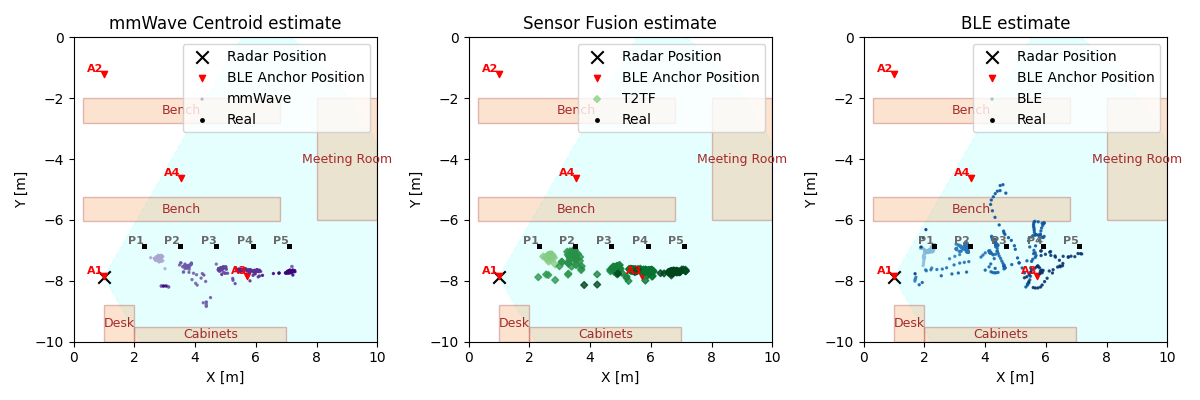
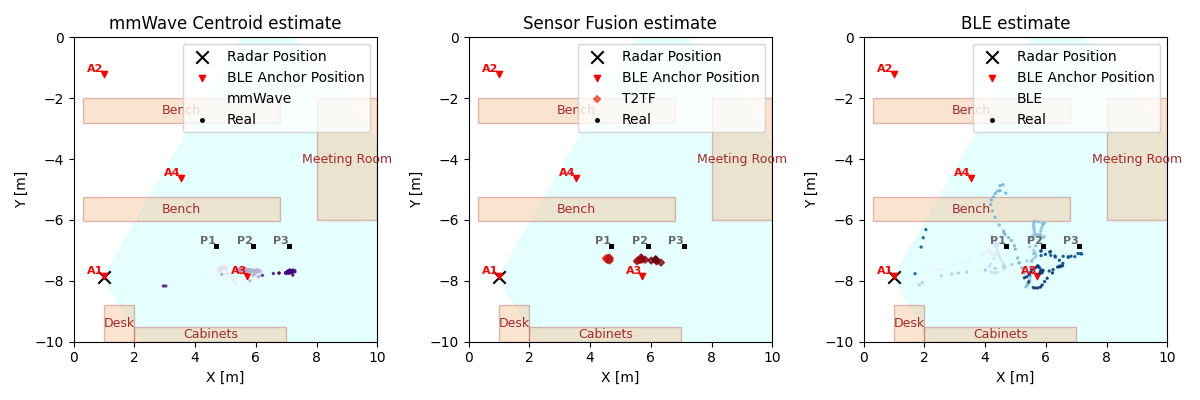
Update final implementation for article submission

diff --git a/tools/plot_dataset_2d.py b/tools/plot_dataset_2d.py
@@ -3,19 +3,25 @@ import pandas as pd
 import matplotlib.pyplot as plt
 import matplotlib as mpl
 from constants import RADAR_PLACEMENT, EXPERIMENT_POINTS
-from calculate_mse_mae_rmse import calculate_mse_mae_rmse
+from ast import literal_eval
 from plot_room_2d import plot_obstacles, plot_radar_fov, plot_experiment_points
 
 # Load data
 data = pd.read_csv("fused_dataset.csv", sep=";")
 data["timestamp"] = pd.to_datetime(data["timestamp"], format="%Y-%m-%d %H:%M:%S")
 
-# Ensure stringified lists are parsed correctly
-for col in ["x", "y", "z", "centroid_xyz", "real_xyz", "sensor_fused_xyz", "dl_sensor_fused_xyz"]:
-    if col in data.columns:
-        data[col] = data[col].apply(eval)
+def safe_eval_list(s):
+    """
+    Safely evaluate a string representation of a list, correctly handling 'nan'.
+    """
+    try:
+        return eval(s, {"nan": np.nan})
+    except NameError:
+        return [np.nan, np.nan, np.nan]
 
-errors = calculate_mse_mae_rmse(data)
+data["centroid_xyz"] = data["centroid_xyz"].apply(eval)
+data["real_xyz"] = data["real_xyz"].apply(eval)
+data["sensor_fused_xyz_filter"] = data["sensor_fused_xyz_filter"].apply(safe_eval_list)
 
 def plot_colored_points(ax, x, y, times, cmap, label, size=10, marker='.'):
     """Plot points with fading colors (no connecting lines)."""
@@ -24,7 +30,7 @@ def plot_colored_points(ax, x, y, times, cmap, label, size=10, marker='.'):
     if label == "Real":
         ax.scatter(x, y, marker=marker, c="black", s=size, label=label)
     else:
-        norm = mpl.colors.Normalize(vmin=times.min()-1200, vmax=times.max())
+        norm = mpl.colors.Normalize(vmin=times.min()-50, vmax=times.max())
         ax.scatter(x, y, marker=marker, c=times, cmap=cmap, norm=norm, s=size, alpha=0.8, label=label)
 
 
@@ -36,9 +42,9 @@ for _, row in data.iterrows():
     if row.get("centroid_xyz"):
         trajectories["centroid"]["x"].append(row["centroid_xyz"][0])
         trajectories["centroid"]["y"].append(row["centroid_xyz"][1])
-    if row.get("sensor_fused_xyz"):
-        trajectories["sensor_fused"]["x"].append(row["sensor_fused_xyz"][0])
-        trajectories["sensor_fused"]["y"].append(row["sensor_fused_xyz"][1])
+    if row.get("sensor_fused_xyz_filter") and not np.isnan(row["sensor_fused_xyz_filter"]).any():
+        trajectories["sensor_fused"]["x"].append(row["sensor_fused_xyz_filter"][0])
+        trajectories["sensor_fused"]["y"].append(row["sensor_fused_xyz_filter"][1])
     if row.get("dl_sensor_fused_xyz"):
         trajectories["dl_sensor_fused"]["x"].append(row["dl_sensor_fused_xyz"][0])
         trajectories["dl_sensor_fused"]["y"].append(row["dl_sensor_fused_xyz"][1])
@@ -66,12 +72,12 @@ def make_subplot(ax, title, to_plot):
     if "sensor_fused" in to_plot and trajectories["sensor_fused"]["x"]:
         plot_colored_points(ax, trajectories["sensor_fused"]["x"], trajectories["sensor_fused"]["y"],
                             times[:len(trajectories["sensor_fused"]["x"])],
-                            plt.cm.Greens, "T2TF", size=12, marker='D')
+                            plt.cm.Reds, "T2TF", size=12, marker='D')
 
     if "dl_sensor_fused" in to_plot and trajectories["dl_sensor_fused"]["x"]:
         plot_colored_points(ax, trajectories["dl_sensor_fused"]["x"], trajectories["dl_sensor_fused"]["y"],
                             times[:len(trajectories["dl_sensor_fused"]["x"])],
-                            plt.cm.Reds, "DLFusion", size=12, marker='D')
+                            plt.cm.Greens, "DLFusion", size=12, marker='D')
 
     if "ble" in to_plot and trajectories["ble"]["x"]:
         plot_colored_points(ax, trajectories["ble"]["x"], trajectories["ble"]["y"],
@@ -92,7 +98,7 @@ def make_subplot(ax, title, to_plot):
 
 
 # Create one figure with 3 subplots side by side
-fig, axes = plt.subplots(1, 3, figsize=(9, 3))  # wide figure with 3 panels
+fig, axes = plt.subplots(1, 3, figsize=(12, 4))  # wide figure with 3 panels
 
 make_subplot(axes[0], "mmWave Centroid estimate", ["centroid"])
 make_subplot(axes[1], "Sensor Fusion estimate", ["sensor_fused", "dl_sensor_fused"])

diff --git a/tools/plot_mse_rmse_by_distance.py b/tools/plot_mse_rmse_by_distance.py
@@ -100,20 +100,32 @@ plt.show()
 
 # Plotting RMSE by Distance
 fig, ax = plt.subplots(figsize=(4.5,3.5))
+multiplier = 0
+width = 0.2  # the width of the bars
+x = np.arange(len(results))  # the label locations
 for method in methods:
-    ax.plot(results['distance'], results[f'RMSE_{method}'], label=f'{method_label_map.get(method)}', marker= method_marker_map.get(method))
+    offset = width * multiplier
+    rects = ax.bar(x + offset, results[f'RMSE_{method}'], width, label=method_label_map.get(method, method))
+    ax.bar_label(rects, padding=3, fmt='%.2f', fontsize=8)
+    multiplier += 1
     print(f'MIN RMSE_{method}:', np.min(results[f'RMSE_{method}']))
     print(f'MAX RMSE_{method}:', np.max(results[f'RMSE_{method}']))
+
+
 print(f'Absolute improvement in RMSE from BLE:', results['RMSE_BLE'].mean() - results['RMSE_Fusion'].mean())
 print(f'Absolute improvement in RMSE from MMW:', results['RMSE_MMW'].mean() - results['RMSE_Fusion'].mean())
-print(f"Percentage improvement in RMSE from BLE: {(((results['RMSE_Fusion'].mean() - results['RMSE_BLE'].mean()) / results['RMSE_Fusion'].mean()))*100}%")
-print(f"Percentage improvement in RMSE from MMW: {(((results['RMSE_Fusion'].mean() - results['RMSE_MMW'].mean()) / results['RMSE_Fusion'].mean()))*100}%")
+print(f"Percentage improvement in RMSE from BLE: {(((results['RMSE_Fusion'].mean() - results['RMSE_BLE'].mean()) / results['RMSE_BLE'].mean()))*100}%")
+print(f"Percentage improvement in RMSE from MMW: {(((results['RMSE_Fusion'].mean() - results['RMSE_MMW'].mean()) / results['RMSE_BLE'].mean()))*100}%")
 
+x_labels = ['P1','P2','P3']
 # plt.title('Root Mean Squared Error (RMSE) by Distance')
 ax.set_xlabel('Distance [m]', fontsize=14)
 ax.set_ylabel('RMSE [m]', fontsize=14)
-ax.grid(True)
-fig.legend(loc="upper left")
+ax.set_ylim((0,1.4))
+ax.set_xticks(x + width * (len(methods) - 1) / 2, x_labels)
+ax.set_xticklabels(x_labels)
+ax.legend(loc='upper left')
+ax.grid(True, axis='y', linestyle='--', alpha=0.6)
 fig.tight_layout()
 fig.show()
 fig.savefig("Resultado.eps", format='eps')

diff --git a/tools/deep_fusion.py b/tools/deep_fusion.py
@@ -22,7 +22,7 @@ class SensorFusionDataset(Dataset):
 
         # parse fields (safer than eval)
         df['centroid_xyz']   = df['centroid_xyz'].apply(eval)
-        df['ble_xyz_filter'] = df['ble_xyz_filter'].apply(eval)
+        df['ble_xyz_replace_filter'] = df['ble_xyz_replace_filter'].apply(eval)
         df['real_xyz']       = df['real_xyz'].apply(eval)
 
         # features: mm x,y,z and ble x,y,z
@@ -30,7 +30,7 @@ class SensorFusionDataset(Dataset):
         Y = []
         for _, r in df.iterrows():
             mm = r['centroid_xyz']
-            ble = r['ble_xyz_filter']
+            ble = r['ble_xyz_replace_filter']
             gt = r['real_xyz']
             # skip if nan
             if any([np.isnan(v) for v in mm[:2]]) or any([np.isnan(v) for v in ble[:2]]):
@@ -172,7 +172,7 @@ def predict_and_save(csv_path, model_path, out_csv='dl_fused_output.csv', device
     df = pd.read_csv(csv_path, sep=';')
     df = df[~np.isnan(df[['x_ble']]).any(axis=1)].reset_index(drop=True)
     df['centroid_xyz']   = df['centroid_xyz'].apply(eval)
-    df['ble_xyz_filter'] = df['ble_xyz_filter'].apply(eval)
+    df['ble_xyz_replace_filter'] = df['ble_xyz_replace_filter'].apply(eval)
     df['real_xyz']       = df['real_xyz'].apply(eval)
 
     # build result columns aligned to the filtered rows used in dataset
@@ -182,7 +182,7 @@ def predict_and_save(csv_path, model_path, out_csv='dl_fused_output.csv', device
     j = 0
     for i, r in df.iterrows():
         mm = r['centroid_xyz']
-        ble = r['ble_xyz_filter']
+        ble = r['ble_xyz_replace_filter']
         if any([np.isnan(v) for v in mm[:2]]) or any([np.isnan(v) for v in ble[:2]]):
             fused_xy.append([np.nan, np.nan])
             fused_unc.append([np.nan, np.nan])

diff --git a/tools/constants.py b/tools/constants.py
@@ -20,11 +20,9 @@ EXPERIMENT_POINTS = {
     "C3P4": [ 4.7, -6.865, 1.78],
     "C3P5": [ 5.9, -6.865, 1.78],
     "C3P6": [ 7.1, -6.865, 1.78],
-    "P1": [ 2.308, -6.865, 1.78],
-    "P2": [ 3.503, -6.865, 1.78],
-    "P3": [ 4.7, -6.865, 1.78],
-    "P4": [ 5.9, -6.865, 1.78],
-    "P5": [ 7.1, -6.865, 1.78],
+    "P1": [ 4.7, -6.865, 1.78],
+    "P2": [ 5.9, -6.865, 1.78],
+    "P3": [ 7.1, -6.865, 1.78],
     "C4PA": [ 7.1, -6.865, 1.78],
     "CVP1": [ 1.102, -7.165, 1.78],
     "CVP2": [ 2.308, -7.165, 1.78],

diff --git a/tools/pre_process_dataset.py b/tools/pre_process_dataset.py
@@ -12,8 +12,8 @@ BLE_DATASETS_PREFIX = "exported_"
 MMW_DATASETS_SUFFIX = "_mmwave_data"
 TEST_NAMES = [
     # "T029_MMW_A1_BLE_C3P1", #OUT OF FOV, DISCARD!!!
-    "T030_MMW_A1_BLE_C3P2",
-    "T031_MMW_A1_BLE_C3P3",
+    # "T030_MMW_A1_BLE_C3P2",
+    # "T031_MMW_A1_BLE_C3P3",
     "T032_MMW_A1_BLE_C3P4",
     "T033_MMW_A1_BLE_C3P5",
     "T034_MMW_A1_BLE_C4PA",

diff --git a/tools/plot_room_2d.py b/tools/plot_room_2d.py
@@ -20,7 +20,7 @@ OBSTACLES = [
     },  # sala de reunioes
 ]
 
-POINTS_TO_CONSIDER = ["P2", "P3", "P4", "P5", "P6"]
+POINTS_TO_CONSIDER = ["P1", "P2", "P3"]
 
 def plot_obstacles(ax):
     """Desenha os obstáculos fixos (mesas e bancadas)."""
